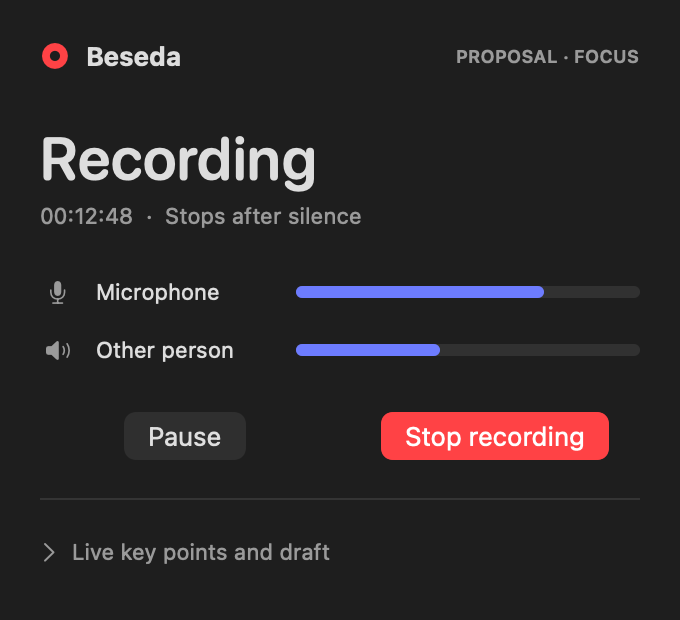
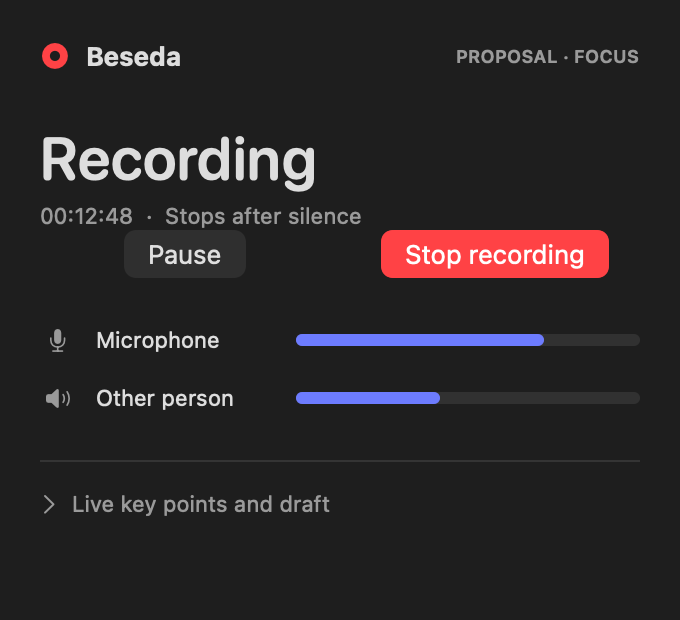
BESEDA-315 Repair native concepts after critique

diff --git a/.factory/shots/BESEDA-macos-design/render.swift b/.factory/shots/BESEDA-macos-design/render.swift
@@ -27,15 +27,15 @@ struct Concept: View {
             if screen == "recording" {
                 Text(direction == 1 ? "Recording" : "Call in progress").font(.system(size: direction == 1 ? 30 : 24, weight: .semibold, design: direction == 1 ? .rounded : .default))
                 Text("00:12:48  ·  Stops after silence").font(.subheadline).foregroundStyle(.secondary).padding(.top, 5)
-                VStack(spacing: 15) {
-                    meter("Microphone", 0.72, symbol: "mic.fill")
-                    meter("Other person", 0.42, symbol: "speaker.wave.2.fill")
-                }.padding(.vertical, 24)
                 HStack(spacing: 10) {
                     Button("Pause") {}.keyboardShortcut("p").frame(maxWidth: .infinity)
                     Button("Stop recording") {}.keyboardShortcut("r").frame(maxWidth: .infinity).tint(.red).buttonStyle(.borderedProminent)
                 }
-                Divider().padding(.vertical, 19)
+                VStack(spacing: 15) {
+                    meter("Microphone", 0.72, symbol: "mic.fill")
+                    meter("Other person", 0.42, symbol: "speaker.wave.2.fill")
+                }.padding(.vertical, 24)
+                Divider().padding(.bottom, 14)
                 Label("Live key points and draft", systemImage: "chevron.right").font(.subheadline).foregroundStyle(.secondary)
             } else {
                 Text(direction == 1 ? "Ready when you are." : "Ready to record").font(.system(size: direction == 1 ? 27 : 23, weight: .semibold, design: direction == 1 ? .rounded : .default))
@@ -76,7 +76,7 @@ struct Concept: View {
     var archive: some View {
         HStack(spacing: 0) {
             VStack(alignment: .leading, spacing: 0) {
-                HStack { Text("Conversations").font(.title2.bold()); Spacer(); Image(systemName: "magnifyingglass") }.padding(.bottom, 24)
+                Text("Conversations").font(.title2.bold()).padding(.bottom, 24)
                 Text("TODAY").font(.caption2.bold()).tracking(1.2).foregroundStyle(.secondary).padding(.bottom, 10)
                 row("Team check-in", "10:42  ·  Zoom  ·  28 min", true)
                 row("Planning review", "09:15  ·  Meet  ·  36 min", false)
@@ -87,24 +87,14 @@ struct Concept: View {
             }.padding(22).frame(width: direction == 1 ? 290 : 330).background(Color(nsColor: .windowBackgroundColor))
             Rectangle().fill(Color.primary.opacity(0.12)).frame(width: 1)
             VStack(alignment: .leading, spacing: 0) {
-                HStack(spacing: 18) {
-                    Label("Record", systemImage: "record.circle")
-                    Spacer()
-                    Image(systemName: "square.on.square")
-                    Image(systemName: "trash")
-                }.font(.subheadline).foregroundStyle(.secondary).frame(height: 52).padding(.horizontal, 28)
-                Divider()
                 VStack {
                     VStack(alignment: .leading, spacing: 0) {
                         Text("Team check-in").font(.system(size: direction == 1 ? 34 : 29, weight: .semibold, design: direction == 1 ? .rounded : .default)).padding(.top, 34)
                         Text("Today at 10:42  ·  Zoom  ·  28 minutes  ·  Microphone + system audio")
                             .font(.subheadline).foregroundStyle(.secondary).padding(.top, 8)
-                        HStack(spacing: 26) {
-                            Text("Results").foregroundStyle(accent).fontWeight(.semibold)
-                            Text("Transcript"); Text("Info")
-                        }.font(.subheadline).padding(.top, 32).padding(.bottom, 12)
-                        Rectangle().fill(accent).frame(width: 48, height: 2)
-                        Divider().padding(.bottom, 32)
+                        Text("Results  ·  Transcript  ·  Info")
+                            .font(.subheadline).foregroundStyle(.secondary).padding(.top, 32).padding(.bottom, 16)
+                        Divider().padding(.bottom, 24)
                         if direction == 1 {
                             Text("RESULT").font(.caption2.bold()).tracking(2).foregroundStyle(accent)
                             Text("Review the draft on Friday")
@@ -115,17 +105,18 @@ struct Concept: View {
                         Text(direction == 1 ? "Conversation summary" : "Summary").font(.headline).padding(.bottom, 12)
                         Text("The team reviewed the current draft and agreed to share feedback before Friday. The next discussion will focus on the revised version.")
                             .font(.body).lineSpacing(6).fixedSize(horizontal: false, vertical: true)
-                        Divider().padding(.vertical, 30)
+                        Text("The review identified two open questions: whether the introduction explains the audience clearly and which examples should remain in the final draft. The team will collect written comments before the next discussion.")
+                            .font(.body).lineSpacing(6).fixedSize(horizontal: false, vertical: true).padding(.top, 16)
+                        Text("Friday's review will compare the revised opening with the original and decide which examples to keep. No changes to the release date were agreed in this call.")
+                            .font(.body).lineSpacing(6).fixedSize(horizontal: false, vertical: true).padding(.top, 16)
+                        Divider().padding(.vertical, 20)
                         Text("Previous related call").font(.subheadline.weight(.medium))
                         Text("Planning review  ·  12 Sep  ·  Show context")
                             .font(.caption).foregroundStyle(.secondary).padding(.top, 8)
                     }.frame(maxWidth: direction == 1 ? 620 : 570, alignment: .leading).frame(maxWidth: .infinity, alignment: .center).padding(.horizontal, 34)
                     Spacer()
                 }
-                Divider()
-                HStack(spacing: 15) {
-                    Image(systemName: "play.fill"); Text("00:00"); Capsule().fill(accent.opacity(0.45)).frame(height: 4); Text("28:04"); Text("1×")
-                }.font(.caption).padding(.horizontal, 28).frame(height: 64)
+
             }.background(paper)
         }.frame(width: 1100, height: 720).foregroundStyle(ink)
     }
@@ -151,15 +142,17 @@ func render() throws {
                       let bitmap = NSBitmapImageRep(data: tiff), let png = bitmap.representation(using: .png, properties: [:]) else { fatalError("Render failed") }
                 let name = "\(direction == 1 ? "focus" : "ledger")-\(screen)-\(dark ? "dark" : "light")"
                 try png.write(to: folder.appendingPathComponent(name + ".png"))
-                // A 390-pixel inspection strip from the real pixels, not a reflowed phone UI.
-                let source = NSImage(data: png)!
-                let scaledHeight = Int(Double(bitmap.pixelsHigh) * 390 / Double(bitmap.pixelsWide))
-                let thumbnail = NSImage(size: NSSize(width: 390, height: scaledHeight))
-                thumbnail.lockFocus()
-                source.draw(in: NSRect(x: 0, y: 0, width: 390, height: scaledHeight), from: .zero, operation: .copy, fraction: 1)
-                thumbnail.unlockFocus()
-                let reduced = NSBitmapImageRep(data: thumbnail.tiffRepresentation!)!
-                try reduced.representation(using: .png, properties: [:])!.write(to: folder.appendingPathComponent(name + "-390.png"))
+                // Archive companion is a readable 390px detail crop at source resolution.
+                let crop = screen == "archive"
+                    ? CGRect(x: direction == 1 ? 680 : 760, y: 160, width: 390, height: 1020)
+                    : CGRect(x: 0, y: 0, width: bitmap.pixelsWide, height: bitmap.pixelsHigh)
+                guard let cropped = bitmap.cgImage?.cropping(to: crop) else { fatalError("Crop failed") }
+                let companion = NSBitmapImageRep(cgImage: cropped)
+                try companion.representation(using: .png, properties: [:])!.write(to: folder.appendingPathComponent(name + "-390.png"))
+                if screen == "archive" {
+                    let sidebar = NSBitmapImageRep(cgImage: bitmap.cgImage!.cropping(to: CGRect(x: 30, y: 30, width: 390, height: 1020))!)
+                    try sidebar.representation(using: .png, properties: [:])!.write(to: folder.appendingPathComponent(name + "-sidebar-390.png"))
+                }
                 print(name, bitmap.pixelsWide, bitmap.pixelsHigh)
             }
         }

diff --git a/docs/decisions/native-macos-design.md b/docs/decisions/native-macos-design.md
@@ -9,15 +9,15 @@ title: Native macOS visual directions
 
 ## Two systems
 
-**Focus** gives the current task a large rounded system-font heading, restrained indigo selection, a generous result reading column and compact two-source levels. Recording reduces the menu to Pause, Stop and a closed live disclosure. Results lead while a previous related call stays subordinate. Its large text consumes vertical space; longer localized strings need a real-window check. The large result line is proposed presentation of synthetic summary content, not a new extraction feature.
+**Focus** gives the current task a large rounded system-font heading, restrained indigo selection, a generous result reading column and compact two-source levels. Recording shows Pause and Stop before the two meters and closed live disclosure. Results lead while a previous related call stays subordinate. Its large text consumes vertical space; longer localized strings need a real-window check. The large result line is proposed presentation of synthetic summary content, not a new extraction feature.
 
 **Ledger** is denser and more documentary: smaller default system headings, wider sidebar, teal selection and a conventional Summary section instead of a pull quote. It prioritizes scanning archive rows and transcript/result navigation over an editorial reading moment. It has weaker immediate result emphasis, but scales better when result prose is long. Neither system adds a card grid, novel data model or competitor-derived chrome.
 
-Both show existing Start/Auto-record/Recent/Conversations/Settings/Quit in idle; recording hides archive commands and has Pause then red Stop, two levels and collapsed live notes. Archive groups calls by day, selects Results for a processed call, retains Transcript/Info and a bottom player. Proposed title/metadata correspond to source fields. The sample result is made-up text of an existing result field. Search icon and top action band represent the archive's native searchable sidebar and toolbar; they are **not** screenshots of those controls. The offscreen renderer does not reproduce `MenuBarExtra` material, system toolbar, segmented picker, real switch/slider, focus ring, key-equivalent dispatch, hover, accessibility tree or window traffic lights. Do not implement this code in shipping paths until a direction is chosen.
+Both show existing Start/Auto-record/Recent/Conversations/Settings/Quit in idle; recording hides archive commands and has Pause then red Stop, two levels and collapsed live notes. Archive groups calls by day, selects Results for a processed call, retains Transcript/Info and a bottom player. Proposed title/metadata correspond to source fields. The sample result is made-up text of an existing result field. The isolated archive omits the system search field, toolbar, titlebar, player and segmented picker rather than counterfeit them; those remain present in the shipping app, not verified by these images. The offscreen renderer does not reproduce `MenuBarExtra` material, system toolbar, segmented picker, real switch/slider, focus ring, key-equivalent dispatch, hover, accessibility tree or window traffic lights. Do not implement this code in shipping paths until a direction is chosen.
 
 ## Assets
 
-Each full PNG is a **SwiftUI proposal**, at 2× of 340×450 pt idle, 340×310 pt recording or 1100×720 pt archive. Its `390` companion is the same bitmap reduced to 390 px for legibility inspection, **not** a phone layout or a 390-pt app window. These sizes are proposed fixed render sizes; only width/default archive size are source-backed constraints. Source: [isolated renderer](../../.factory/shots/BESEDA-macos-design/render.swift).
+Each full PNG is a **SwiftUI proposal**, at 2× of 340×450 pt idle, 340×310 pt recording or 1100×720 pt archive. Popover `390` companions are source-pixel crops. Archive `390` companions are detail crops at source resolution, with separate sidebar crops linked below. They are **not** phone layouts or 390-pt app windows; the detail crop clips lines and cannot demonstrate full-text legibility at 390 px. These sizes are proposed fixed render sizes; only width/default archive size are source-backed constraints. Source: [isolated renderer](../../.factory/shots/BESEDA-macos-design/render.swift).
 
 | Direction | Idle | Recording | Archive/result |
 | --- | --- | --- | --- |
@@ -26,4 +26,4 @@ Each full PNG is a **SwiftUI proposal**, at 2× of 340×450 pt idle, 340×310 pt
 | Ledger, light | [full](../../.factory/shots/BESEDA-macos-design/ledger-idle-light.png) · [390](../../.factory/shots/BESEDA-macos-design/ledger-idle-light-390.png) | [full](../../.factory/shots/BESEDA-macos-design/ledger-recording-light.png) · [390](../../.factory/shots/BESEDA-macos-design/ledger-recording-light-390.png) | [full](../../.factory/shots/BESEDA-macos-design/ledger-archive-light.png) · [390](../../.factory/shots/BESEDA-macos-design/ledger-archive-light-390.png) |
 | Ledger, dark | [full](../../.factory/shots/BESEDA-macos-design/ledger-idle-dark.png) · [390](../../.factory/shots/BESEDA-macos-design/ledger-idle-dark-390.png) | [full](../../.factory/shots/BESEDA-macos-design/ledger-recording-dark.png) · [390](../../.factory/shots/BESEDA-macos-design/ledger-recording-dark-390.png) | [full](../../.factory/shots/BESEDA-macos-design/ledger-archive-dark.png) · [390](../../.factory/shots/BESEDA-macos-design/ledger-archive-dark-390.png) |
 
-Inspection found offscreen native Toggle and Slider rendered as warning glyphs and archive ScrollView omitted its content; replaced the isolated render-only controls with labeled state and a simple track, and used a bounded detail stack. This is a renderer limitation, not evidence of the product UI. Full archive shrinks illegibly to 390 px; inspect the full file at 1:1 for labels. Actual window chrome, keyboard focus order, VoiceOver, dynamic type, locale lengths, 14.2 system appearance, permission and recording flows remain unverified. No independent design critic reviewed these images; seek that review before presenting them as candidates. No direction is endorsed or production-ready.
+Inspection found offscreen native Toggle and Slider rendered as warning glyphs and archive ScrollView omitted its content; the isolated render uses labeled state and a bounded detail stack instead. It cannot demonstrate real switch or transport controls. Archive detail crops clip horizontal text; [Focus light sidebar](../../.factory/shots/BESEDA-macos-design/focus-archive-light-sidebar-390.png), [Focus dark sidebar](../../.factory/shots/BESEDA-macos-design/focus-archive-dark-sidebar-390.png), [Ledger light sidebar](../../.factory/shots/BESEDA-macos-design/ledger-archive-light-sidebar-390.png), [Ledger dark sidebar](../../.factory/shots/BESEDA-macos-design/ledger-archive-dark-sidebar-390.png) show the other important region. This is a renderer limitation, not evidence of the product UI. Full archive shrinks illegibly to 390 px; inspect the full file at 1:1 for labels. Actual window chrome, keyboard focus order, VoiceOver, dynamic type, locale lengths, 14.2 system appearance, permission and recording flows remain unverified. The independent BESEDA-314 critique rejected the predecessor images. The revised images have not passed independent review or complete full-size/390 inspection; clipped text and non-native controls make them unsuitable as native-fidelity evidence. No direction is endorsed or production-ready.
